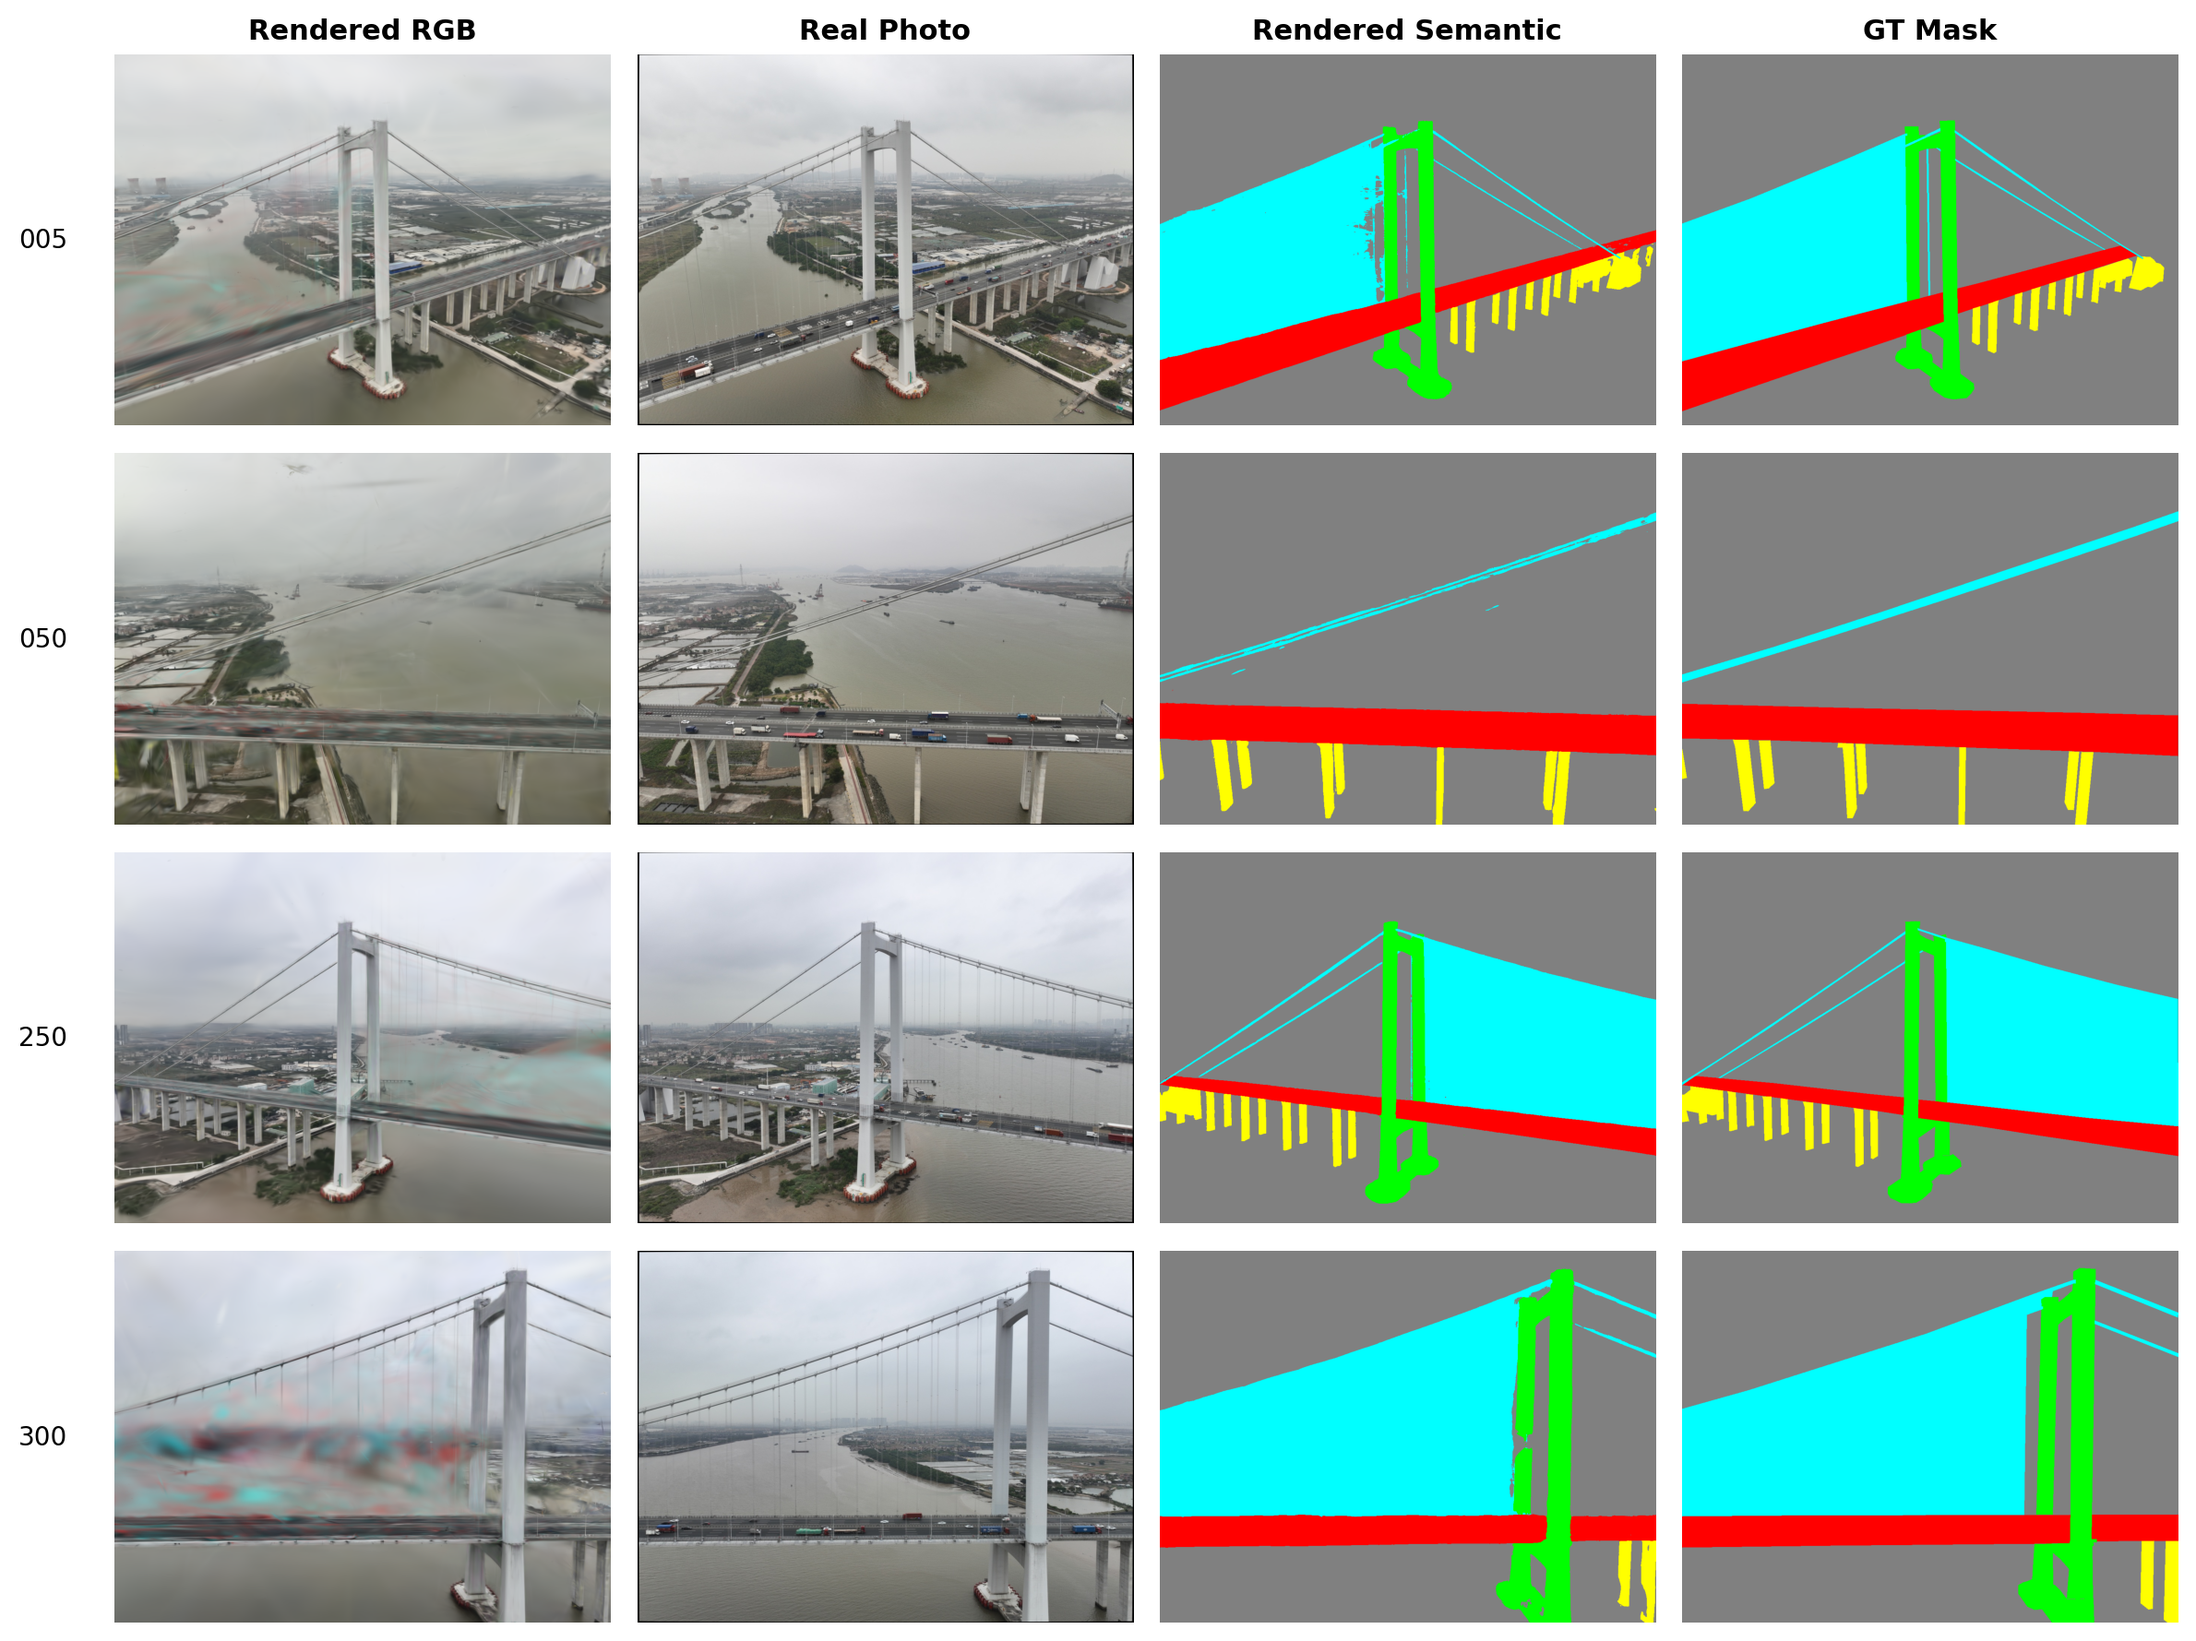
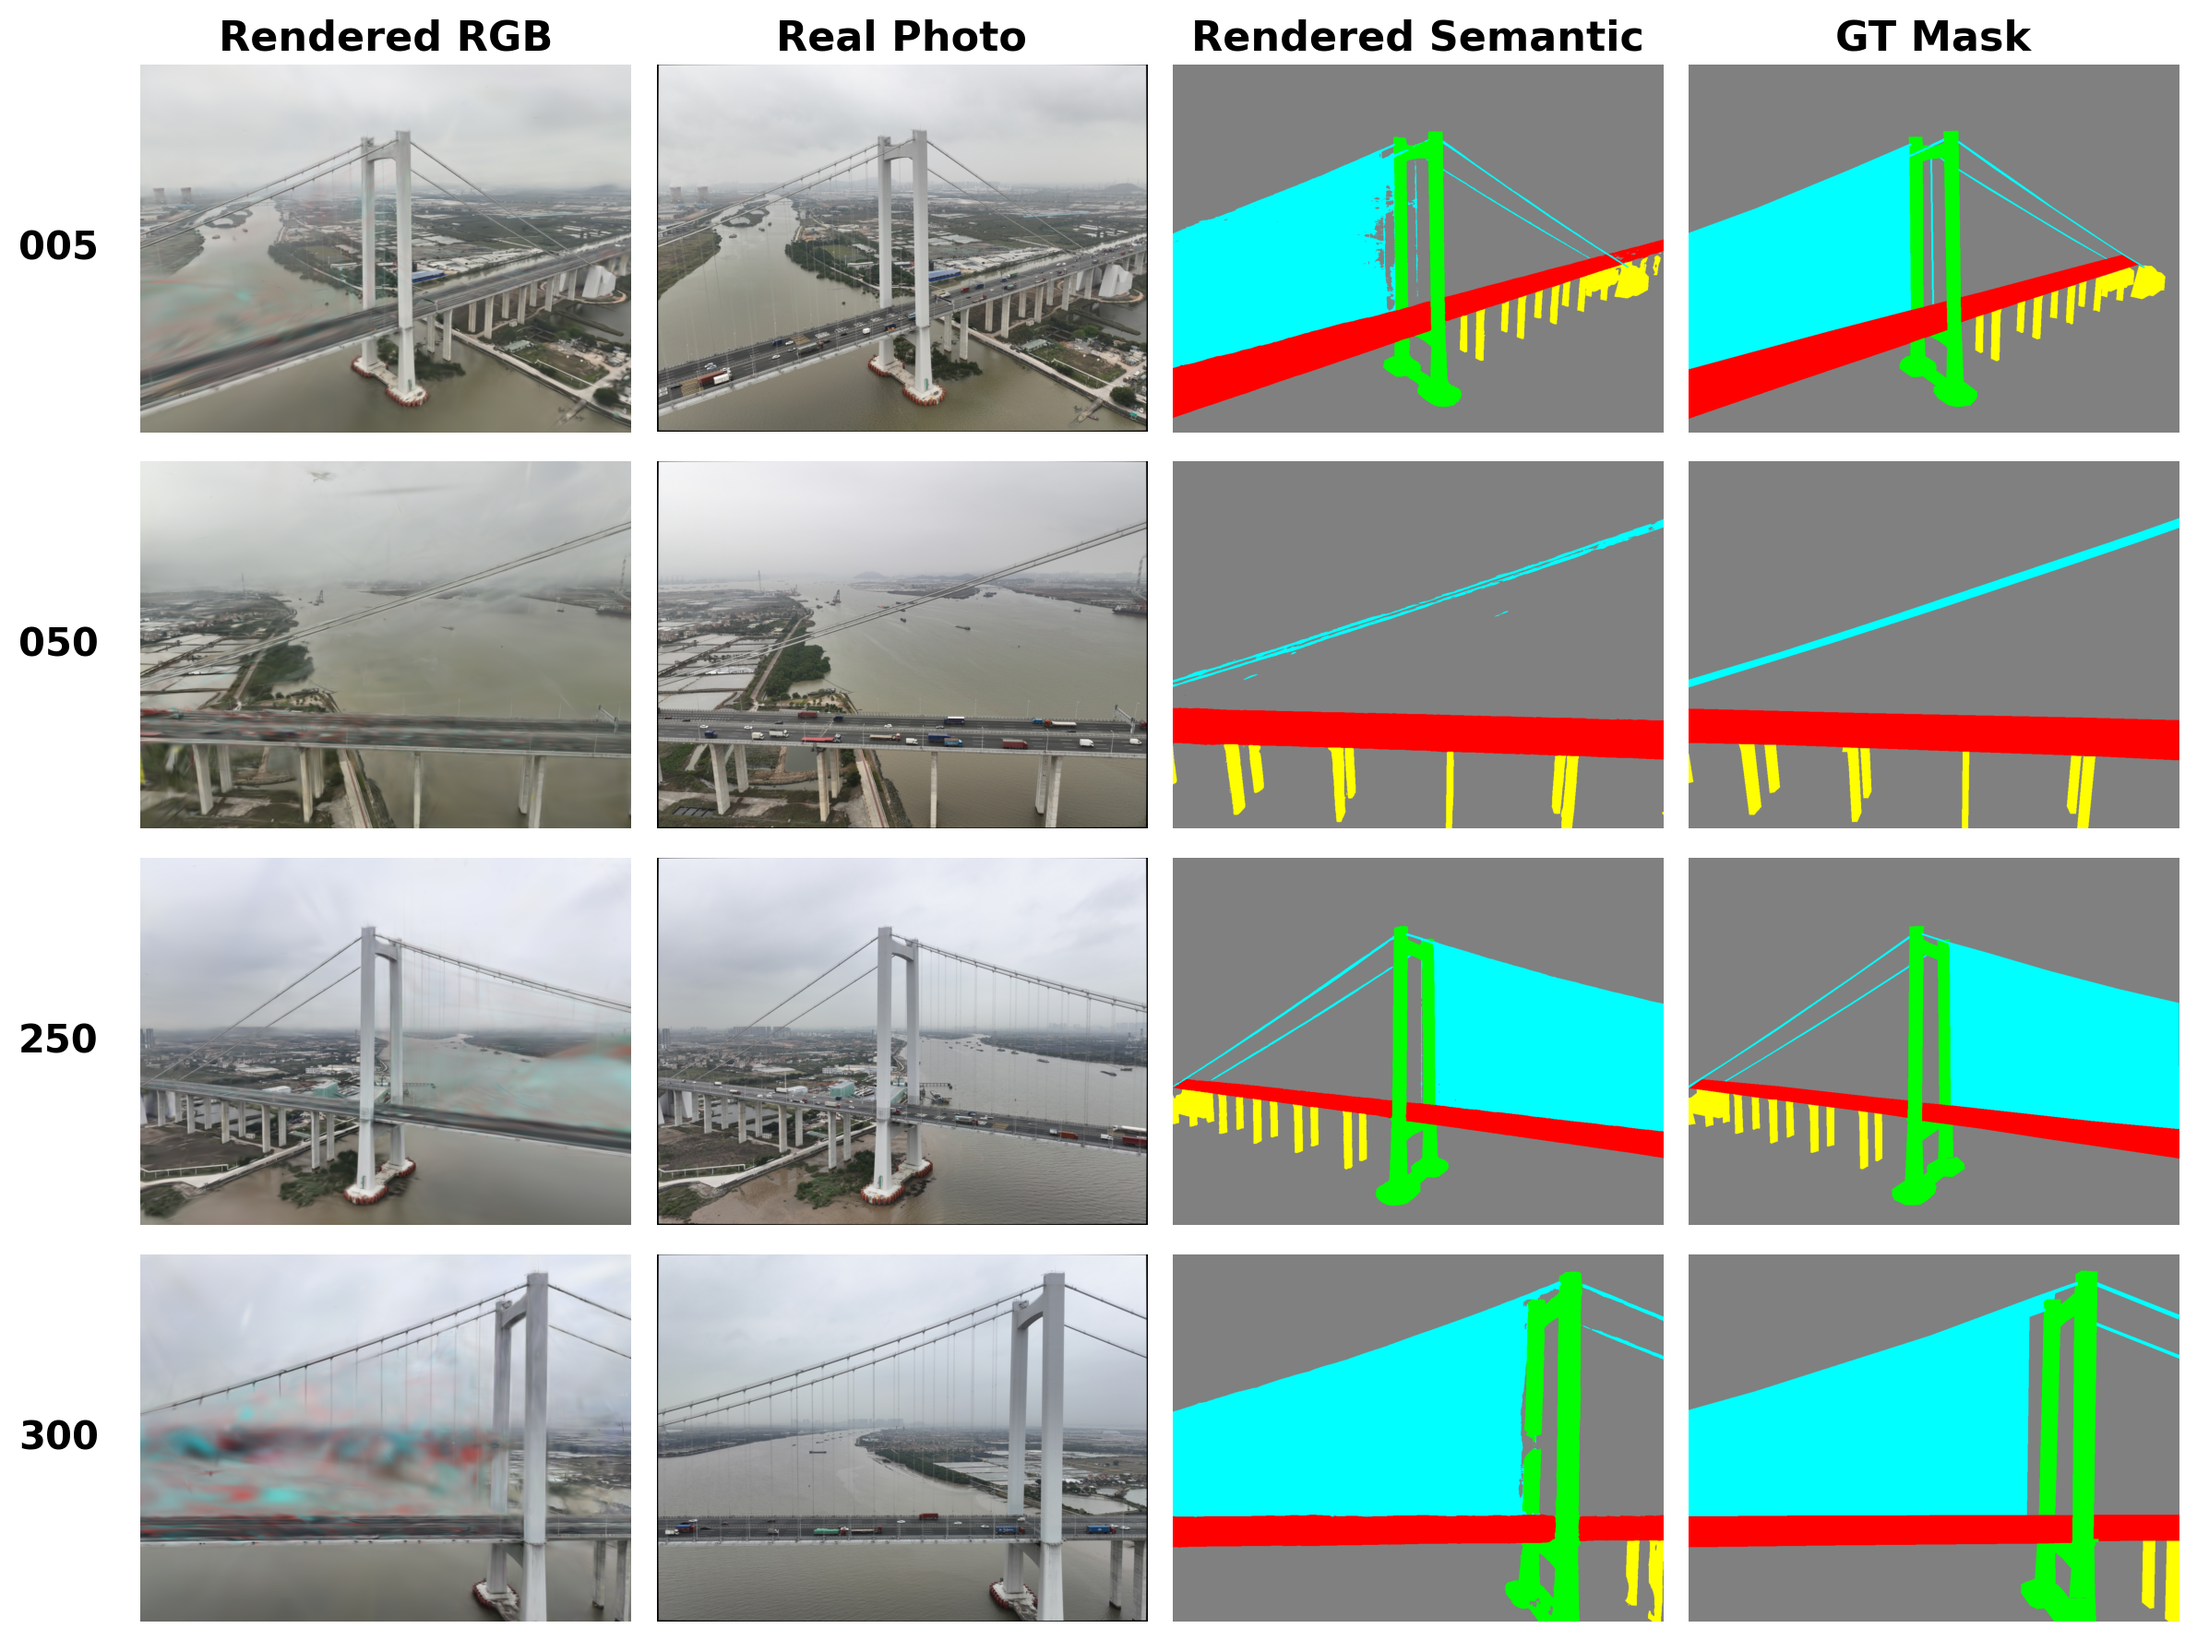
fix: enlarge Figure 4 column titles and row labels for readability

diff --git a/src/evaluation/plot_qualitative_grid.py b/src/evaluation/plot_qualitative_grid.py
@@ -63,9 +63,9 @@ def build_qualitative_grid(
             for spine in ax.spines.values():
                 spine.set_visible(False)
             if row == 0:
-                ax.set_title(col_titles[col], fontsize=11, fontweight="bold")
+                ax.set_title(col_titles[col], fontsize=16, fontweight="bold")
             if col == 0:
-                ax.set_ylabel(vid, fontsize=10, rotation=0, labelpad=28, va="center")
+                ax.set_ylabel(vid, fontsize=15, fontweight="bold", rotation=0, labelpad=32, va="center")
 
     fig.tight_layout()
     os.makedirs(os.path.dirname(output_path) or ".", exist_ok=True)
